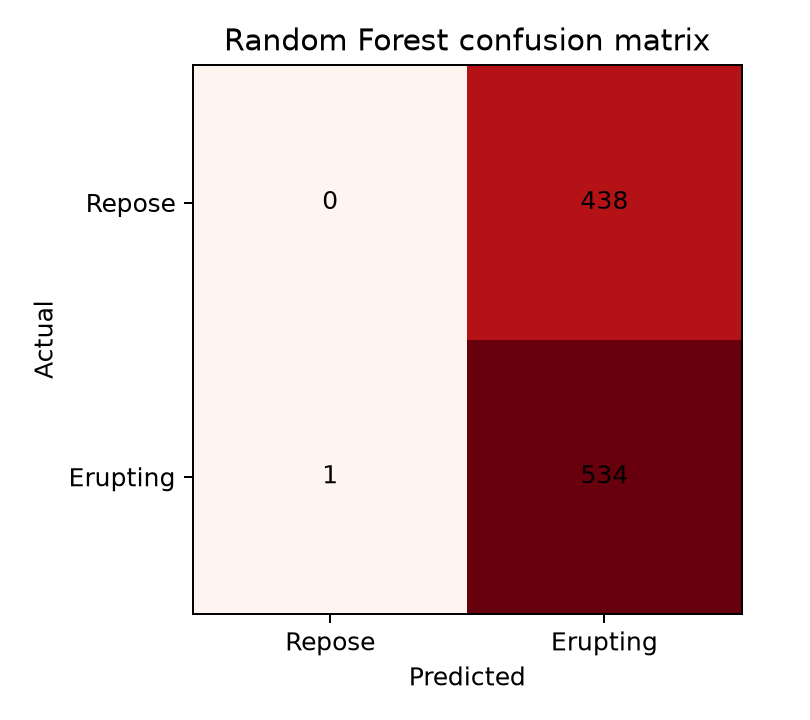
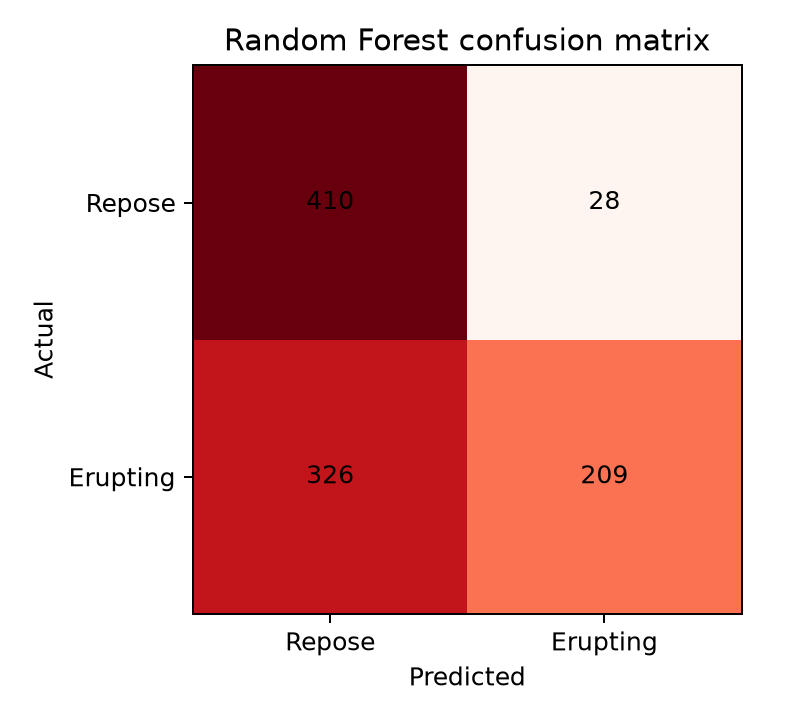
Tune thresholds and add GitHub handoff guide

diff --git a/src/make_artifacts.py b/src/make_artifacts.py
@@ -53,9 +53,11 @@ def report_pdf(results):
                            ("FONTSIZE", (0,0), (-1,-1), 7.5), ("GRID", (0,0), (-1,-1), .25, colors.HexColor("#B6C4D1")),
                            ("ROWBACKGROUNDS", (0,1), (-1,-1), [colors.white, colors.HexColor("#EEF3F7")]),
                            ("ALIGN", (1,1), (-1,-1), "CENTER"), ("VALIGN", (0,0), (-1,-1), "MIDDLE")]))
+    lr = next(m for m in results["models"] if m["model"] == "logistic_regression")
+    rf = next(m for m in results["models"] if m["model"] == "random_forest")
     story += [t, Spacer(1, 5), Paragraph(
-        "The held-out ROC-AUC is the most informative comparison because the test period has a different event-rate distribution from training. Logistic Regression reaches ROC-AUC {:.3f}, while Random Forest reaches {:.3f}; both outperform the 0.5 baseline on ranking eruptive cases. At the default 0.5 threshold, however, the Random Forest predicts nearly every held-out event as eruptive. This threshold behavior and the near-zero kappa show that probability ranking alone does not guarantee useful calibrated alerts.".format(next(m["roc_auc"] for m in results["models"] if m["model"] == "logistic_regression"), next(m["roc_auc"] for m in results["models"] if m["model"] == "random_forest")), styles["BodySmall"]), PageBreak(), Paragraph("Interpretation and limitations", styles["H"]), Paragraph(
-        "Earthquake catalog features contain information associated with Kilauea's eruptive state, especially in the ranking measured by ROC-AUC. The experiment also demonstrates why accuracy alone is unsafe for a time-dependent geophysical task. A stronger follow-up should calibrate a decision threshold on a development period, use event-based or blocked validation, and add waveform/tremor, GPS deformation, gas, and station-quality features. The present model predicts contemporaneous status rather than the time until a future eruption, so it supports a useful educational demonstration but not public safety decisions.", styles["BodySmall"]),
+        "The held-out ROC-AUC is useful because the test period has a different event-rate distribution from training. Logistic Regression reaches ROC-AUC {:.3f}, while Random Forest reaches {:.3f}; both outperform the 0.5 baseline when ranking eruptive cases. We select thresholds on the development period rather than tuning on the test set. The Random Forest threshold is {:.2f}, giving test accuracy {:.3f}, F1 {:.3f}, and Cohen's kappa {:.3f}.".format(lr["roc_auc"], rf["roc_auc"], rf["threshold"], rf["accuracy"], rf["f1"], rf["kappa"]), styles["BodySmall"]), PageBreak(), Paragraph("Interpretation and limitations", styles["H"]), Paragraph(
+        "Earthquake catalog features contain information associated with Kilauea's eruptive state, especially in the ranking measured by ROC-AUC. Development-set threshold selection improves the Random Forest's balance between false alarms and missed eruptive events, but the result remains sensitive to the time period and label definition. A stronger follow-up should use event-based validation and add waveform/tremor, GPS deformation, gas, and station-quality features. The present model predicts contemporaneous status rather than the time until a future eruption, so it supports a useful educational demonstration but not public safety decisions.", styles["BodySmall"]),
         Image(str(OUT / "roc_curves.png"), width=3.25*inch, height=2.3*inch), Spacer(1, 3), Paragraph("Figure: ROC curves on the held-out chronological test period.", styles["Sub"])]
     story += [Spacer(1, 4), Paragraph("Sources: supplied CS229 report and public reference repository bmullet/PEEVED; ANSS/WOVOdat earthquake catalog; Hawaii Center for Volcanology Kilauea eruption chronology.", styles["BodySmall"])]
     doc.build(story)
@@ -113,10 +115,12 @@ def slides_pptx(results):
         y=1.7+row_i*.65
         vals=[m["model"].replace('_',' ').title(),f'{m["accuracy"]:.3f}',f'{m["f1"]:.3f}',f'{m["kappa"]:.3f}',f'{m["roc_auc"]:.3f}']
         for i,v in enumerate(vals): add_text(s,v,x0+sum(widths[:i]),y,widths[i],.3,15,navy, i==0,PP_ALIGN.CENTER)
-    add_text(s,"Random Forest: ROC-AUC 0.822\nLogistic Regression: ROC-AUC 0.961\nA ranking metric is more informative here than accuracy alone because the event rate shifts over time.", .85, 4.35, 11.5, 1.25, 22, grey, False, PP_ALIGN.CENTER)
+    rf = next(m for m in results["models"] if m["model"] == "random_forest")
+    lr = next(m for m in results["models"] if m["model"] == "logistic_regression")
+    add_text(s,"Random Forest: ROC-AUC {:.3f}, tuned threshold {:.2f}, kappa {:.3f}\nLogistic Regression: ROC-AUC {:.3f}\nThresholds were selected on development data before the held-out test.".format(rf["roc_auc"], rf["threshold"], rf["kappa"], lr["roc_auc"]), .85, 4.35, 11.5, 1.25, 22, grey, False, PP_ALIGN.CENTER)
     s = base("What the model tells us", 6)
     add_text(s, "Earthquake features carry predictive signal in the catalog.", .9, 1.25, 11.5, .6, 28, navy, True, PP_ALIGN.CENTER)
-    add_text(s, "The Logistic Regression model ranks held-out eruptive events well by ROC-AUC.\nThe Random Forest captures nonlinear structure but defaults to an overly aggressive positive class.\nNear-zero kappa at the default threshold warns against treating raw predictions as alerts.", 1.15, 2.45, 11, 2.2, 23, grey, False, PP_ALIGN.CENTER)
+    add_text(s, "The Logistic Regression model ranks held-out eruptive events well by ROC-AUC.\nDevelopment-set threshold tuning makes the Random Forest more balanced on the held-out period.\nThe experiment remains retrospective and should not be treated as an operational alert system.", 1.15, 2.45, 11, 2.2, 23, grey, False, PP_ALIGN.CENTER)
     s = base("Conclusion and next steps", 7)
     add_text(s, "Conclusion", .9, 1.2, 2.4, .35, 21, orange, True)
     add_text(s, "The catalog contains useful information about contemporaneous eruptive status, but this experiment does not forecast an eruption days in advance.", .9, 1.7, 11, .8, 25, navy, True)

diff --git a/src/train.py b/src/train.py
@@ -15,7 +15,7 @@ from sklearn.ensemble import RandomForestClassifier
 from sklearn.impute import SimpleImputer
 from sklearn.linear_model import LogisticRegression
 from sklearn.metrics import (accuracy_score, classification_report,
-                             cohen_kappa_score, confusion_matrix, f1_score,
+                             balanced_accuracy_score, cohen_kappa_score, confusion_matrix, f1_score,
                              precision_score, recall_score, roc_auc_score,
                              roc_curve)
 from sklearn.pipeline import make_pipeline
@@ -98,12 +98,22 @@ def make_features(eq: pd.DataFrame, intervals) -> pd.DataFrame:
     return pd.DataFrame(rows)
 
 
-def evaluate(name, model, x_train, y_train, x_test, y_test):
+def choose_threshold(y_true, probabilities):
+    """Choose a threshold on development data without looking at the test set."""
+    candidates = np.linspace(0.05, 0.95, 181)
+    scores = [(balanced_accuracy_score(y_true, probabilities >= t),
+               f1_score(y_true, probabilities >= t, zero_division=0), t)
+              for t in candidates]
+    return max(scores)[2]
+
+
+def evaluate(name, model, x_train, y_train, x_test, y_test, threshold=0.5):
     model.fit(x_train, y_train)
-    pred = model.predict(x_test)
     prob = model.predict_proba(x_test)[:, 1] if hasattr(model, "predict_proba") else pred
+    pred = (prob >= threshold).astype(int)
     metrics = {
         "model": name,
+        "threshold": float(threshold),
         "accuracy": float(accuracy_score(y_test, pred)),
         "precision": float(precision_score(y_test, pred, zero_division=0)),
         "recall": float(recall_score(y_test, pred, zero_division=0)),
@@ -132,8 +142,10 @@ def main():
     cutoff_train = features["timestamp"].quantile(0.70)
     cutoff_dev = features["timestamp"].quantile(0.85)
     train = features[features.timestamp <= cutoff_train]
+    dev = features[(features.timestamp > cutoff_train) & (features.timestamp <= cutoff_dev)]
     test = features[features.timestamp > cutoff_dev]
     x_train, y_train = train[feature_cols], train["erupting"]
+    x_dev, y_dev = dev[feature_cols], dev["erupting"]
     x_test, y_test = test[feature_cols], test["erupting"]
 
     models = {
@@ -144,15 +156,27 @@ def main():
             n_estimators=300, max_depth=15, min_samples_leaf=3,
             class_weight="balanced", random_state=42, n_jobs=-1)),
     }
-    all_metrics, probabilities = [], {}
+    all_metrics, probabilities, fitted_models = [], {}, {}
     for name, model in models.items():
-        _, metrics, prob = evaluate(name, model, x_train, y_train, x_test, y_test)
+        model.fit(x_train, y_train)
+        dev_prob = model.predict_proba(x_dev)[:, 1] if hasattr(model, "predict_proba") else model.predict(x_dev)
+        threshold = choose_threshold(y_dev, dev_prob) if name != "majority_baseline" else 0.5
+        _, metrics, prob = evaluate(name, model, x_train, y_train, x_test, y_test, threshold)
         all_metrics.append(metrics)
         probabilities[name] = prob
+        fitted_models[name] = model
+    rf = fitted_models["random_forest"].named_steps["randomforestclassifier"]
+    importances = pd.DataFrame({"feature": feature_cols, "importance": rf.feature_importances_}).sort_values("importance", ascending=False)
+    importances.to_csv(OUT / "feature_importance.csv", index=False)
+    plt.figure(figsize=(7, 4))
+    top = importances.head(8).sort_values("importance")
+    plt.barh(top["feature"], top["importance"], color="#DD6C27")
+    plt.xlabel("Mean decrease in impurity"); plt.title("Random Forest feature importance")
+    plt.tight_layout(); plt.savefig(OUT / "feature_importance.png", dpi=180); plt.close()
     (OUT / "metrics.json").write_text(json.dumps({
         "dataset": {"rows": int(len(features)), "positive_rate": float(features.erupting.mean()),
                     "train_rows": int(len(train)), "test_rows": int(len(test)),
-                    "train_end": str(cutoff_train), "development_end": str(cutoff_dev)},
+                    "dev_rows": int(len(dev)), "train_end": str(cutoff_train), "development_end": str(cutoff_dev)},
         "features": feature_cols, "models": all_metrics
     }, indent=2))
 

diff --git a/GITHUB_UPLOAD.md b/GITHUB_UPLOAD.md
@@ -1,0 +1,22 @@
+# Private GitHub upload
+
+The local repository has no remote configured. Create an empty **private** repository on GitHub, then run these commands from this directory:
+
+```bash
+cd /home/wingsfry/Work/volcano-eruption-ml
+git remote add origin https://github.com/<your-username>/<private-repo-name>.git
+git branch -M main
+git push -u origin main
+```
+
+After the push, open **Settings -> Collaborators** and add the faculty member and assigned TA accounts. Do not commit `.venv/`, passwords, GitHub tokens, or private student information. Add team names and USNs only after confirming the exact spelling with both members.
+
+The project can be rerun from a fresh clone with:
+
+```bash
+python3 -m venv .venv
+source .venv/bin/activate
+pip install -r requirements.txt
+python src/train.py
+python src/make_artifacts.py
+```
